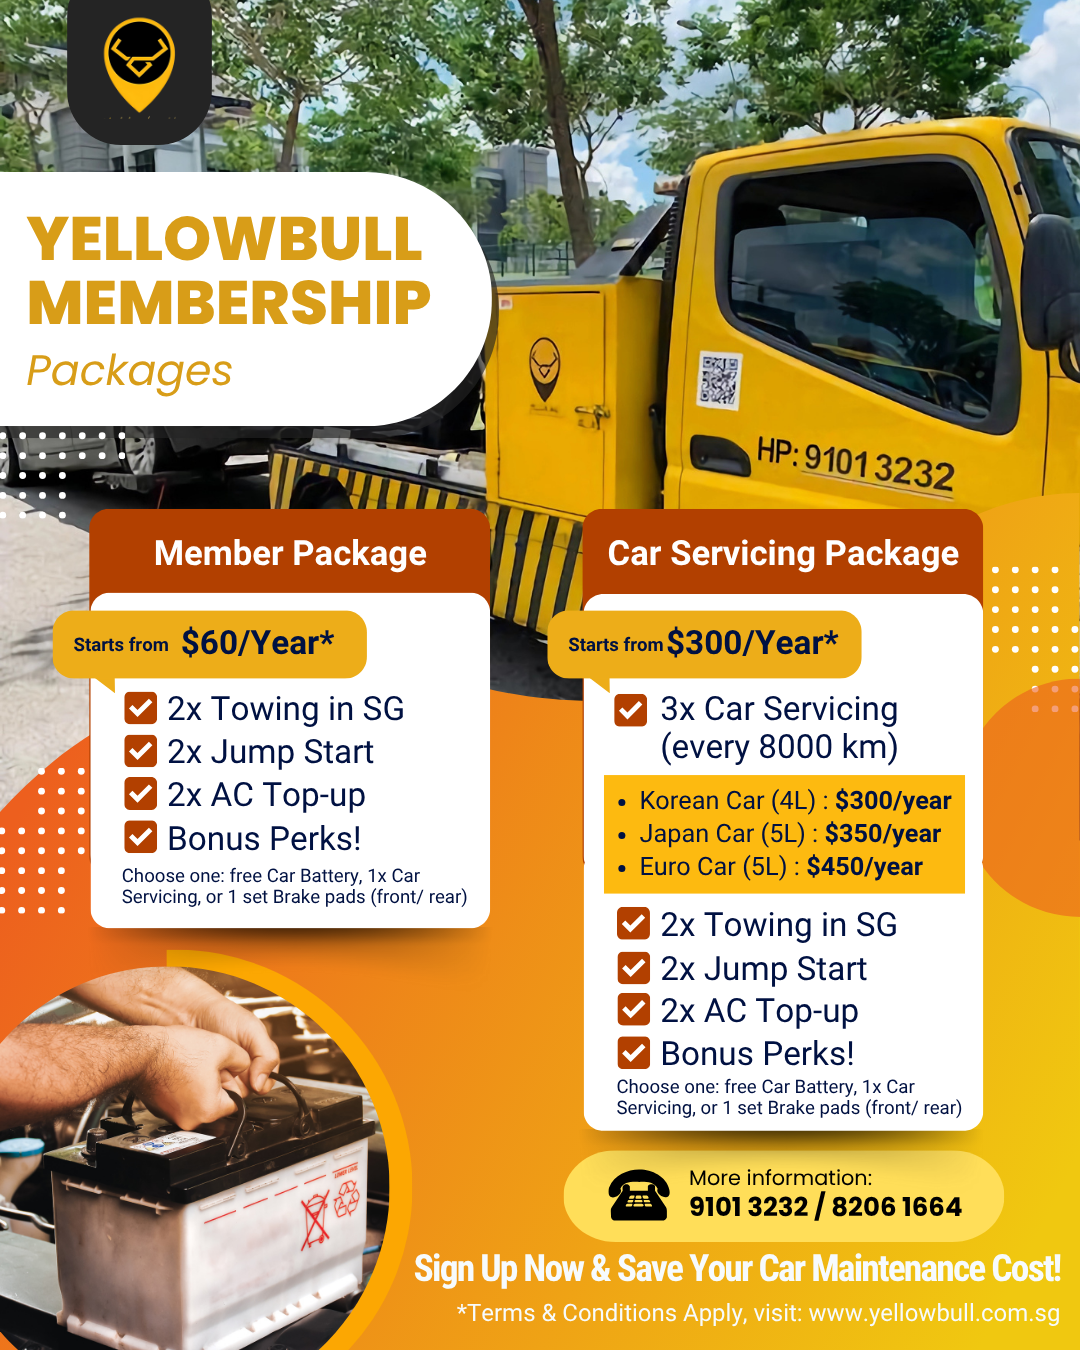
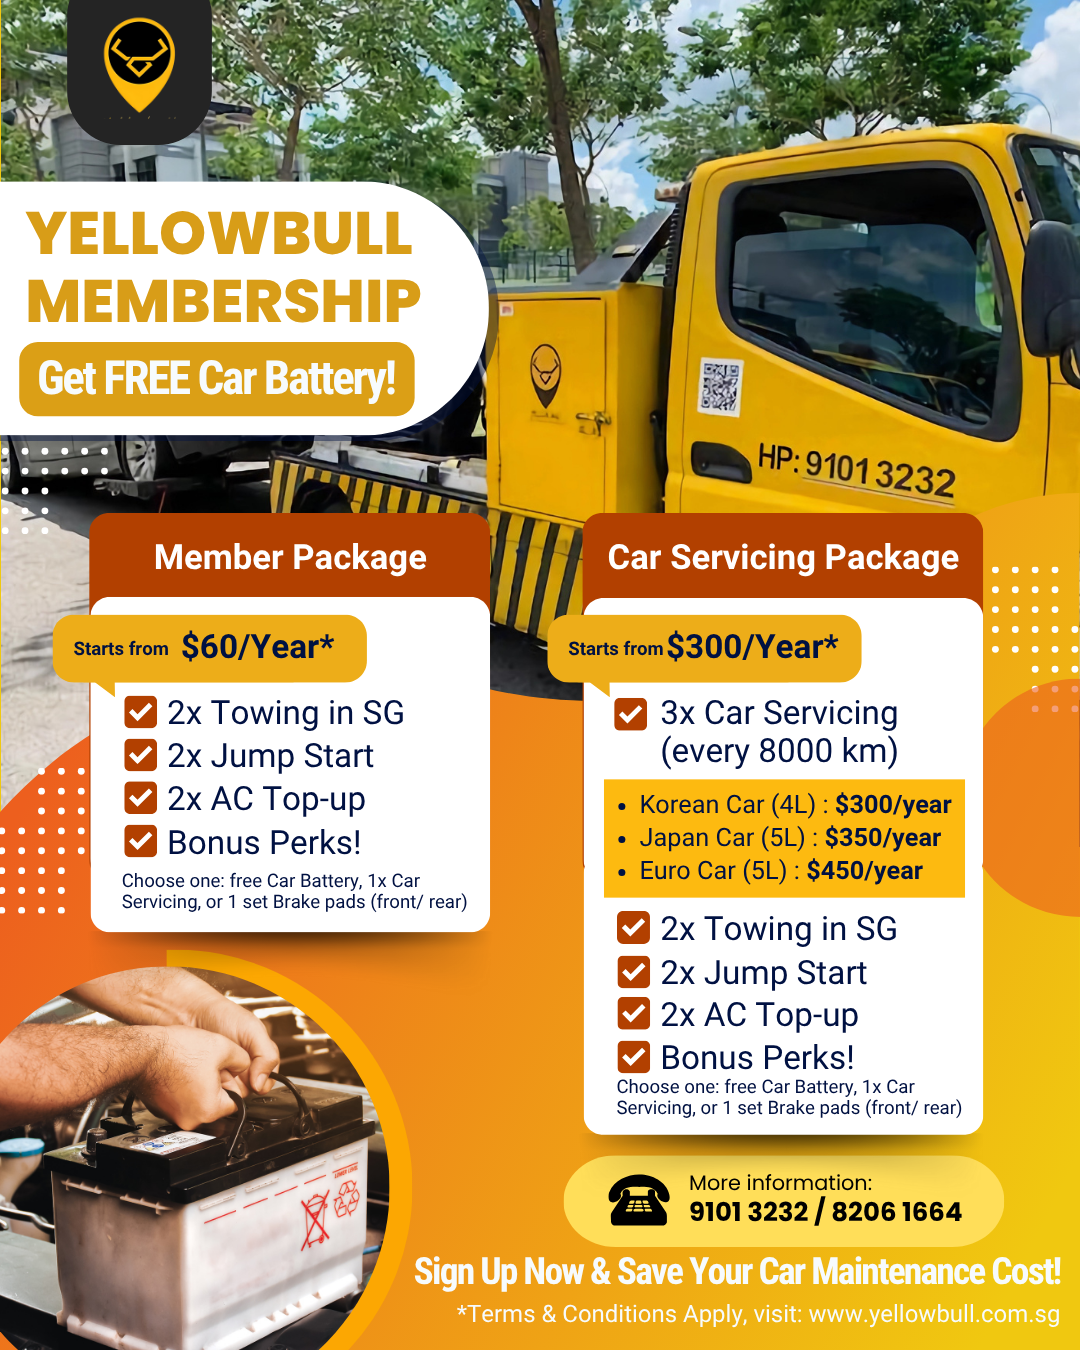
update isi carousel di index html

Changed region(s): [[0.0, 0.0, 1.0, 0.8089], [0.3667, 0.84, 0.9778, 0.9956]]

diff --git a/index.html b/index.html
@@ -26,12 +26,12 @@
   <meta
     content="Singapore&#x27;s fastest — 30 mins — islandwide emergency roadside assistance: Car Towing, on-site Car Battery Replacement, Vehicle Jumpstart, Flat Tyre Assistance, Fuel Delivery and Minor Mechanical Repairs."
     property="og:description" />
-  <meta content="https://github.com/my-host27/yellowbull/raw/master/images/annual.jpg?v=2" property="og:image" />
+  <meta content="https://github.com/my-host27/yellowbull/raw/master/images/og-image.png?v=2" property="og:image" />
   <meta content="30 mins Emergency Roadside Assistance 24/7 | Yellow Bull" property="twitter:title" />
   <meta
     content="Singapore&#x27;s fastest — 30 mins — islandwide emergency roadside assistance: Car Towing, on-site Car Battery Replacement, Vehicle Jumpstart, Flat Tyre Assistance, Fuel Delivery and Minor Mechanical Repairs."
     property="twitter:description" />
-  <meta content="https://github.com/my-host27/yellowbull/raw/master/images/annual.jpg?v=2" property="twitter:image" />
+  <meta content="https://github.com/my-host27/yellowbull/raw/master/images/og-image.png?v=2" property="twitter:image" />
   <meta property="og:type" content="website" />
   <meta content="summary_large_image" name="twitter:card" />
   <meta content="width=device-width, initial-scale=1" name="viewport" />
@@ -433,14 +433,14 @@
       <div class="carousel-item">
         <div class="carousel-background" style="background-image: url('images/car-package.jpg');"></div>
         <div class="carousel-caption-left">
-          <h1>Yellow Bull Annual Car Care Packages</h1>
-          <p> <b>Enjoy up to 2x oil servicing, 24/7 emergency roadside assistance
-              covering Singapore and Malaysia, plus exclusive discounts on other services</b>—all designed to keep your
-            car running smoothly and safely. <br> Subscribe to Yellow Bull Car Care Package and <b>Get a FREE Bottle of Drakos Fire Terminator Extinguisher Spray *worth $45</b> — your added peace of mind on the road!
+          <h1>Yellow Bull Membership & Car Servicing Packages</h1>
+          <p> <b>Enjoy up to 3x car servicing, plus 24/7 emergency roadside assistance
+              and towing covering Singapore islandwide</b>—all designed to keep your
+            car running smoothly and safely. <br> Subscribe to Yellow Bull Membership and <b>Get a bonus perk</b>, including a FREE car battery — to save your car maintenance cost!
           </p>
           <div class="button-group">
             <a href="tel:+6591013232" class="btn btn-warning">Contact Us</a>
-            <a href="#promo-section" class="btn btn-outline-light">See Plans</a>
+            <a href="yellow-bull-roadside-assistance-plans" class="btn btn-outline-light">See Plans</a>
           </div>
         </div>
       </div>
@@ -565,8 +565,8 @@
           <button type="button" data-bs-target="#promoCarousel" data-bs-slide-to="4"></button>
           <button type="button" data-bs-target="#promoCarousel" data-bs-slide-to="5"></button>
           <button type="button" data-bs-target="#promoCarousel" data-bs-slide-to="6"></button>
-          <button type="button" data-bs-target="#promoCarousel" data-bs-slide-to="7"></button>
-          <button type="button" data-bs-target="#promoCarousel" data-bs-slide-to="8"></button>
+          <!-- <button type="button" data-bs-target="#promoCarousel" data-bs-slide-to="7"></button>
+          <button type="button" data-bs-target="#promoCarousel" data-bs-slide-to="8"></button> -->
         </div>
 
         <!-- Slideshow -->
@@ -582,11 +582,11 @@
           </div>
           
           <div class="carousel-item">
-            <img src="images/annual.jpg" alt="YellowBull Annual Car Oil Change Servicing Package" class="d-block w-80"
+            <img src="images/YBjune2025-L.png" alt="Yellow Bull Membership Package" class="d-block w-80"
               loading="lazy" />
             <div class="promo-text">
-              Sign Up for YellowBull Annual Car Care Package and Get the Benefits Up to 2 times Servicing with
-              Year-Round Coverage !
+              Sign up for YellowBull Membership Package that fits your car needs and enjoy the benefits with
+              year-round coverage ! Contact 9101 3232 (Eric) for more inquiries on your membership. (Prices vary based on car make, TnC apply)
             </div>
           </div>
 
@@ -607,23 +607,23 @@
             </div>
           </div>
 
-          <div class="carousel-item">
+          <!-- <div class="carousel-item">
             <img src="images/safra-member.jpg" alt="Get 20% OFF YellowBull Car Care Package for SAFRA and CSC Members"
               class="d-block w-80" loading="lazy" />
             <div class="promo-text">
               Get 20% OFF Annual Car Care Package - Exclusively For SAFRA &
               CSC Member!
             </div>
-          </div>
+          </div> -->
 
-          <div class="carousel-item">
+          <!-- <div class="carousel-item">
             <img src="images/cc2.jpg" alt="YellowBull Annual Car Care Package Benefits" class="d-block w-80"
               loading="lazy" />
             <div class="promo-text">
               Promo Until 31st December 2024 - Get One Year Car Care Package @
               Only $208 with 2 Free Servicing Shared up to 2 Vehicles
             </div>
-          </div>
+          </div> -->
 
           <div class="carousel-item">
             <img src="images/yrr-battery.jpg"
@@ -631,7 +631,7 @@
               loading="lazy" />
             <div class="promo-text">
               YellowBull provides 24/7 Roadside Assistance and Car Towing in
-              Singapore & Malaysia!
+              Singapore islandwide! Call for immediate assistance at 9101 3232 (Eric)
             </div>
           </div>
 
